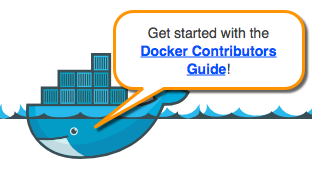
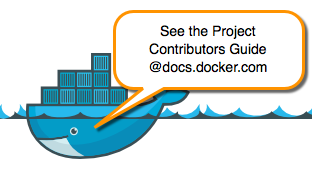
Fixing broken image

Changed region(s): [[0.4327, 0.1453, 0.8942, 0.4651]]

diff --git a/storage/CONTRIBUTING.md b/storage/CONTRIBUTING.md
@@ -4,8 +4,7 @@ Want to hack on Docker? Awesome!  We have a contributor's guide that explains
 [setting up a Docker development environment and the contribution
 process](https://docs.docker.com/project/who-written-for/). 
 
-[![Foo](docs/sources/static_files/contributors.png)](https://docs.docker.com/
-project/who-written-for/)
+![Contributors guide](docs/sources/static_files/contributors.png)
 
 This page contains information about reporting issues as well as some tips and
 guidelines useful to experienced open source contributors. Finally, make sure
